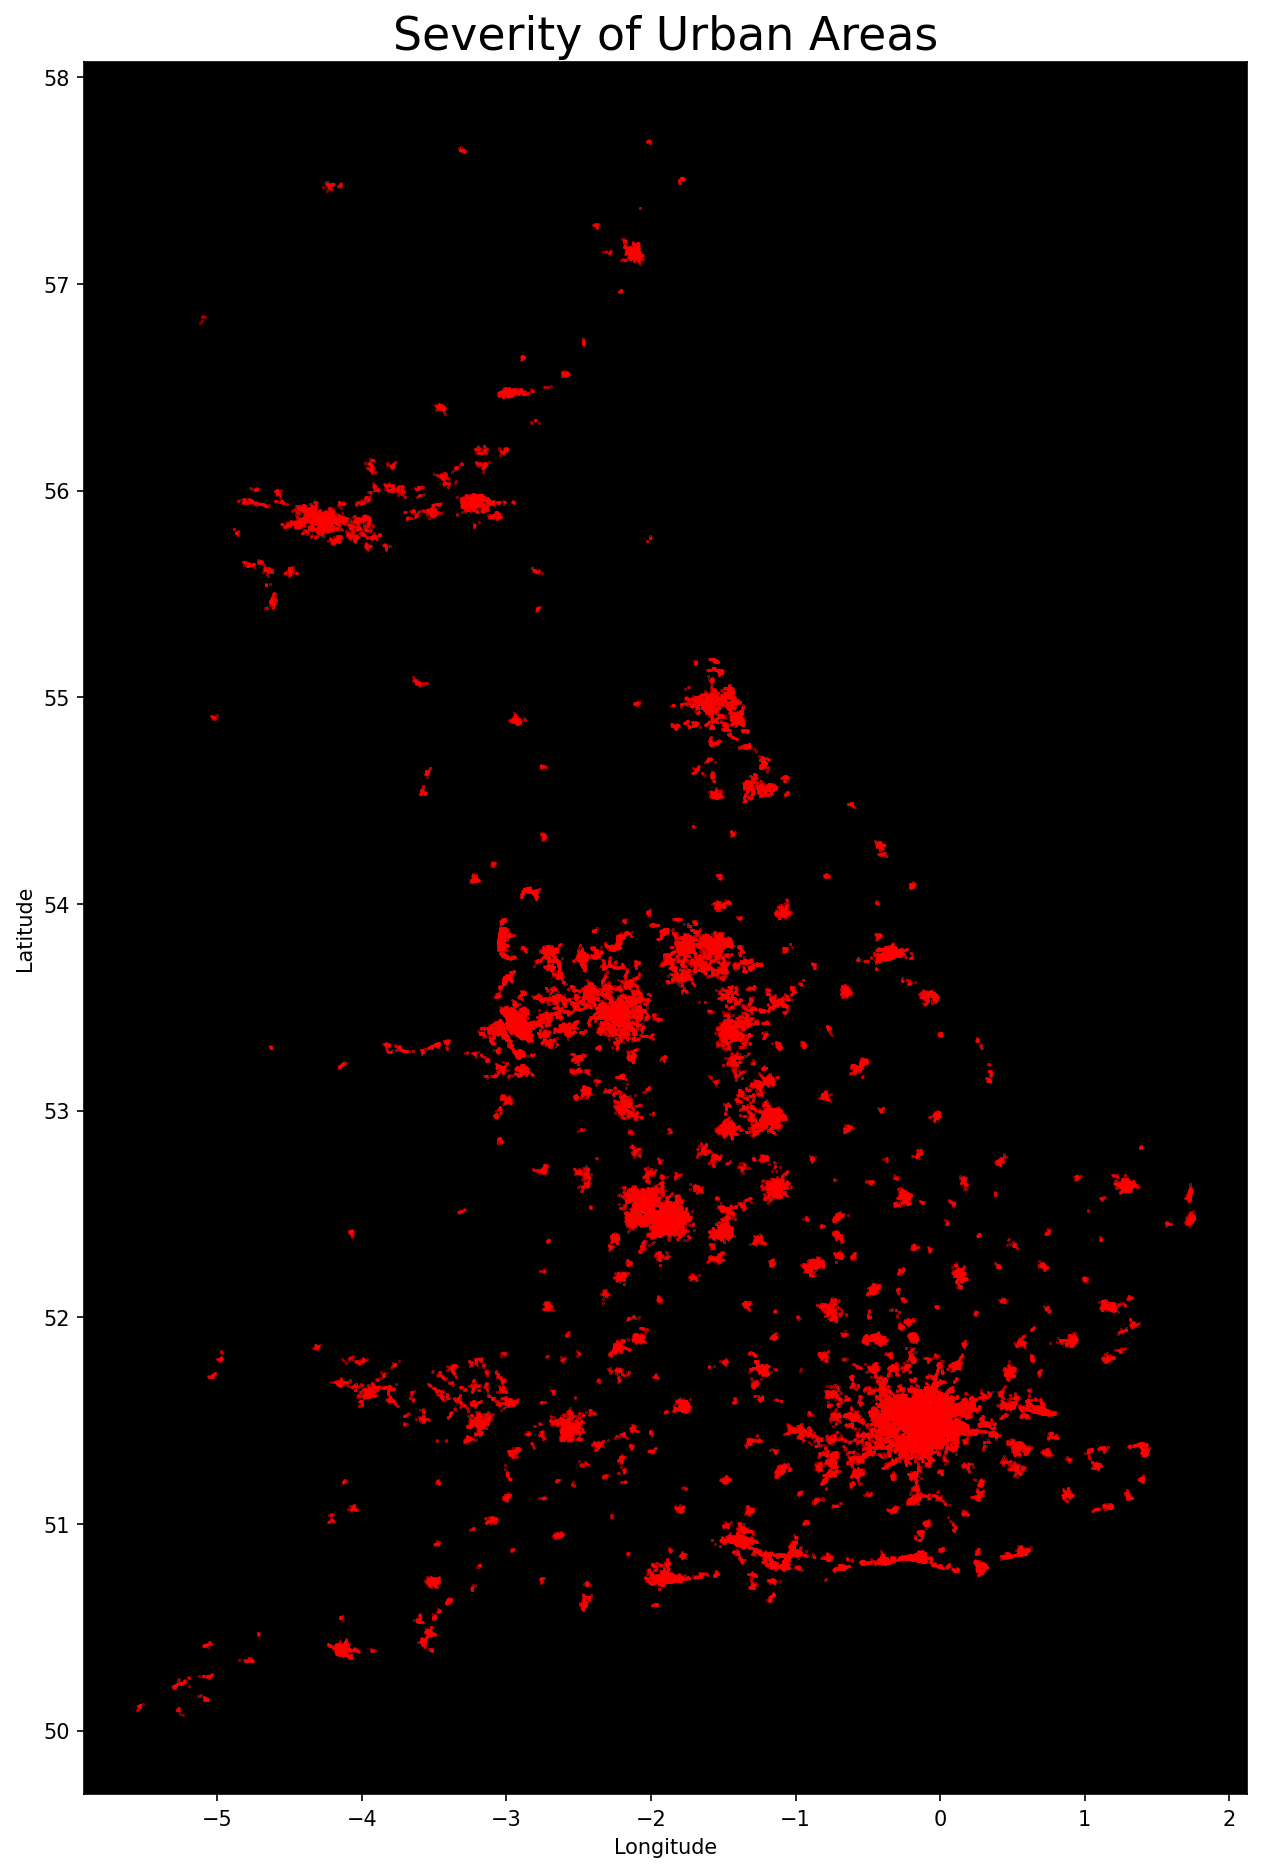
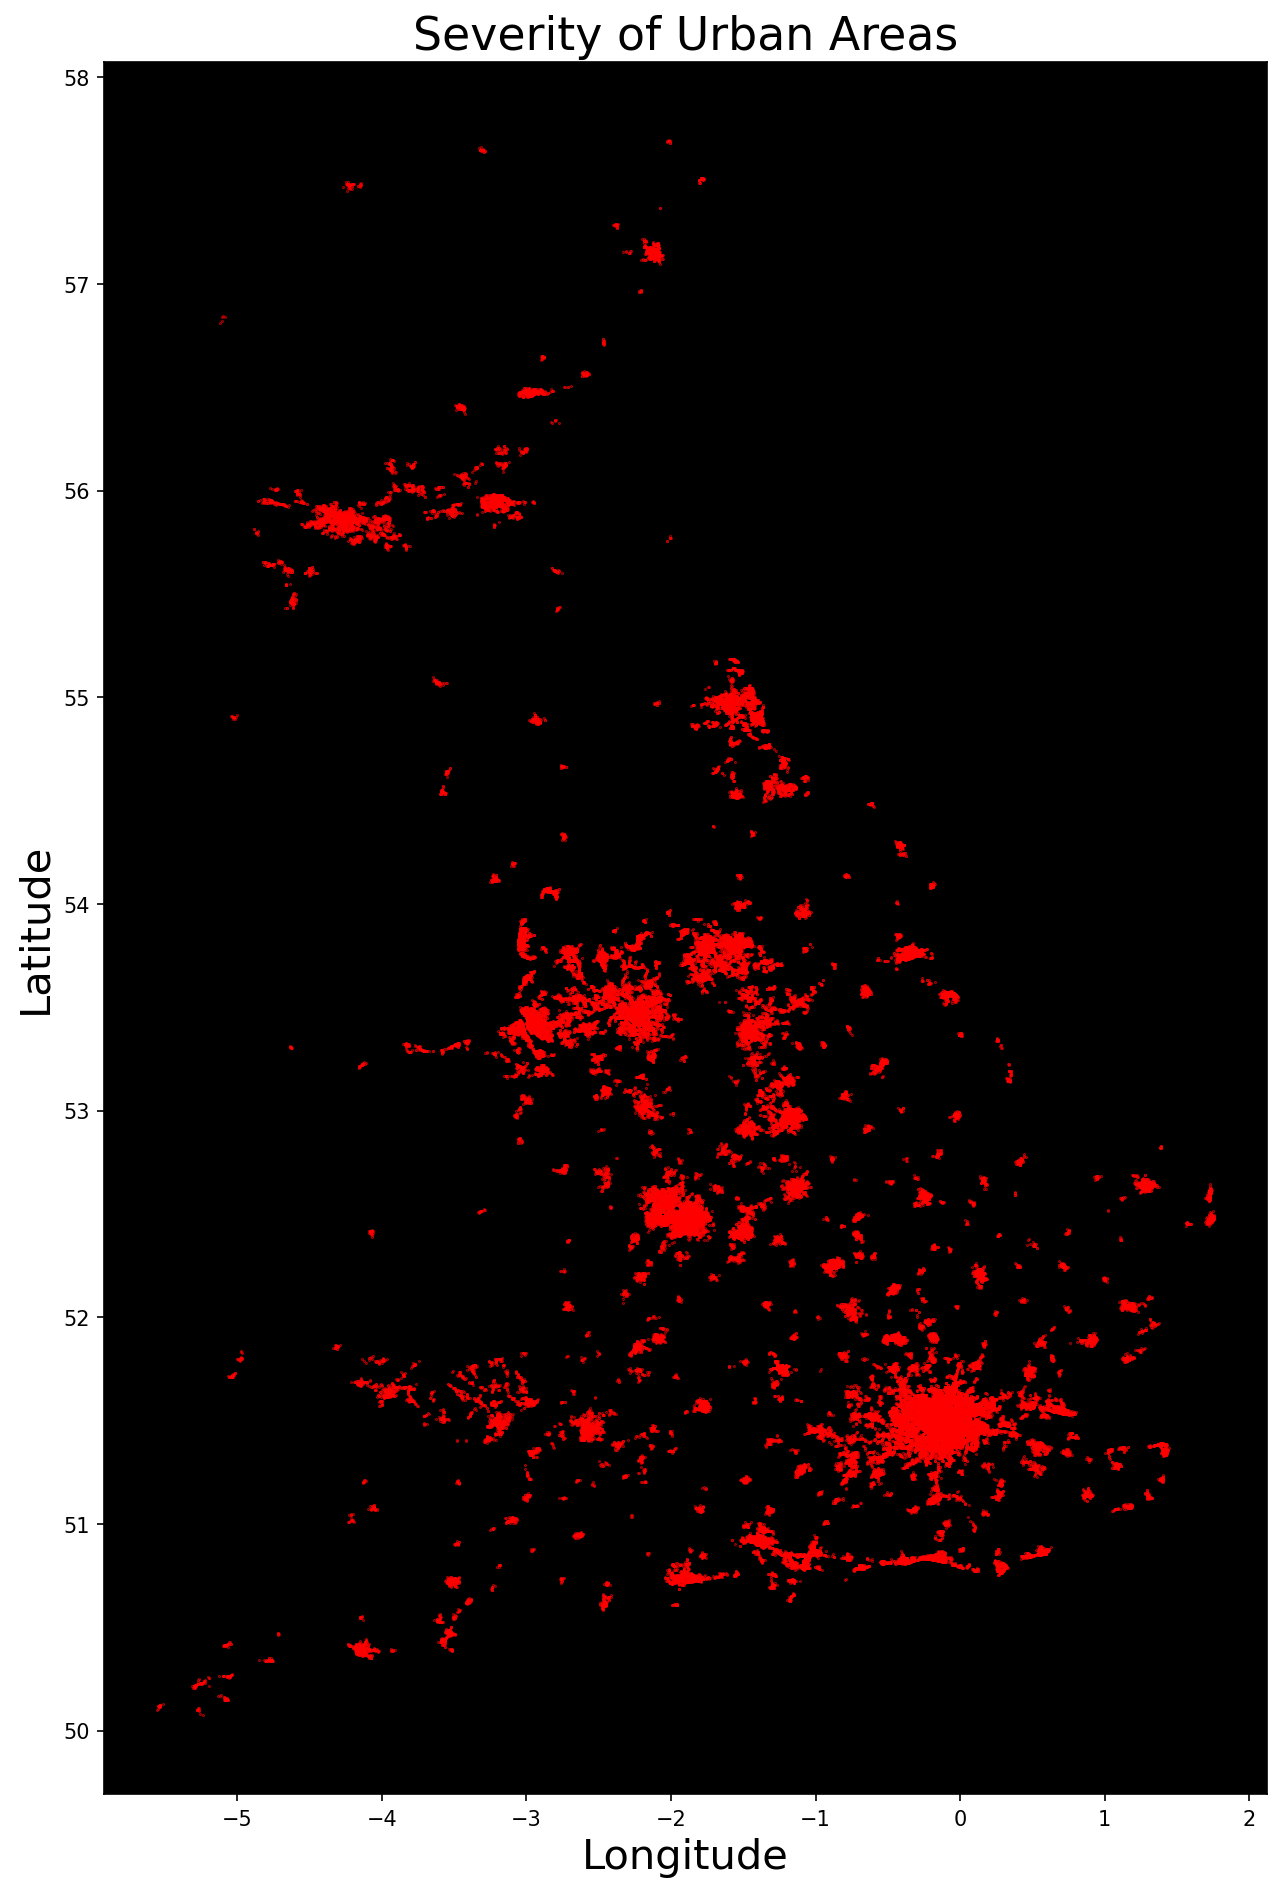
updated font size

diff --git a/src/uk_eda.py b/src/uk_eda.py
@@ -11,6 +11,8 @@ def geographic_plot(conditon, color, title, facecolor, save_loc):
                 s=.1, alpha=.9, subplots=True, ax=ax)
     ax.set_title(title, fontsize=22)
     ax.set_facecolor(facecolor)
+    ax.yaxis.label.set_size(20)
+    ax.xaxis.label.set_size(20)
     plt.savefig(save_loc, dpi=150, bbox_inches = 'tight')
 
 def groupby_func(df, group, agg_column, modifier = 'count'):
@@ -30,7 +32,7 @@ def plots_with_severity_groups(df1, df2, ylab, title, save_loc):
     # save_loc
     plt.style.use('ggplot')
     fig, ax = plt.subplots(1, figsize=(15, 6))
-    bar_width = 0.5
+    bar_width = 0.4
     x1 = df1.iloc[:,0]
     x2 = df2.iloc[:,0]
     y1 = df1.iloc[:,1]
@@ -48,7 +50,7 @@ def plots_with_severity_groups_ratios(df1, df2, ylab, title, save_loc):
     # save_loc
     plt.style.use('ggplot')
     fig, ax = plt.subplots(1, figsize=(15, 6))
-    bar_width = 0.5
+    bar_width = 0.4
     x1 = df1.iloc[:,0]
     x2 = df2.iloc[:,0]
     y1 = df1.iloc[:,1]
@@ -93,6 +95,7 @@ if __name__ == '__main__':
     plots_with_severity_groups_ratios(tm_0, tm_1, "Percent of Accidents", 'Percentage of Accidents By Hour', '../images/hour_pt.png')
 
 
+    # Plot Time of Day Counts and Percentages
 
 
 
